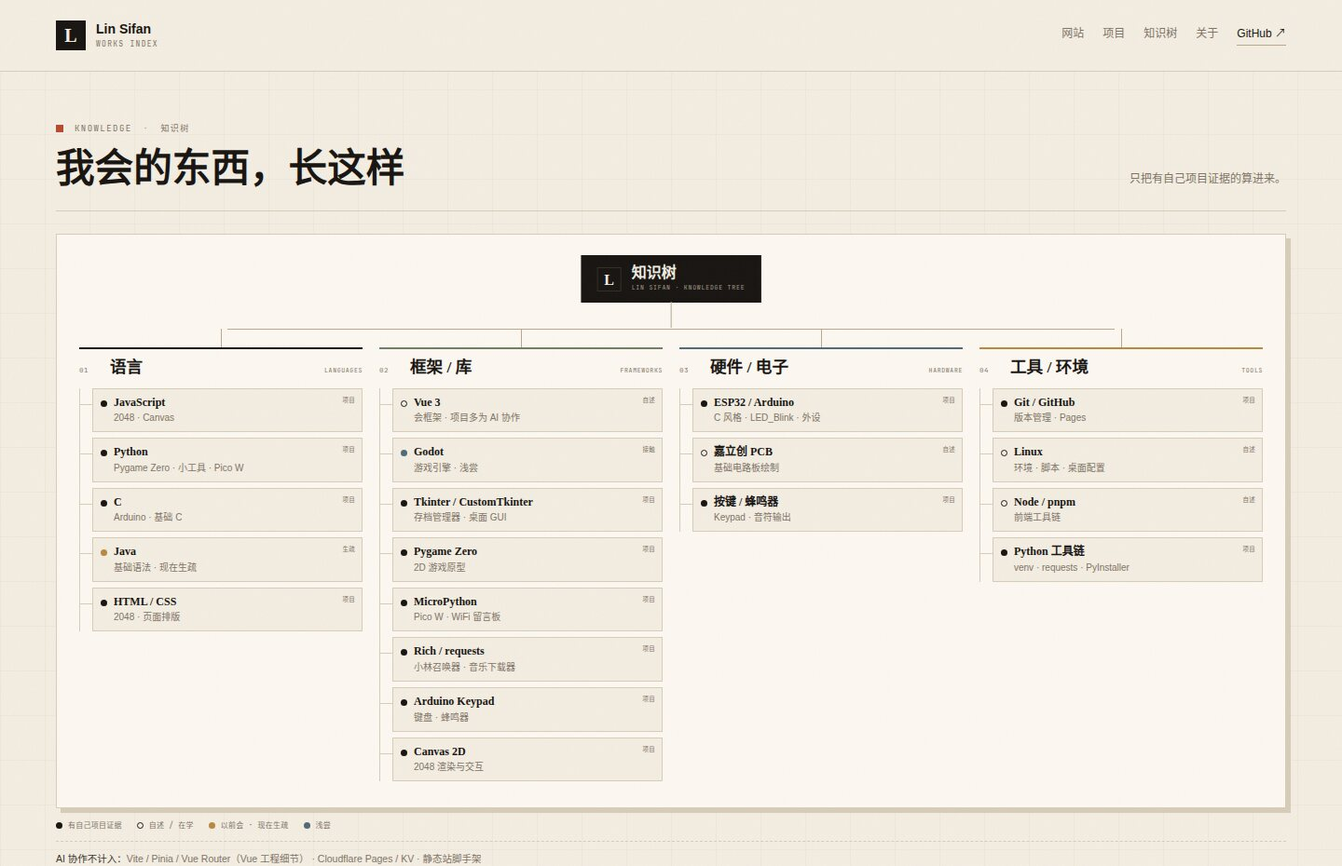
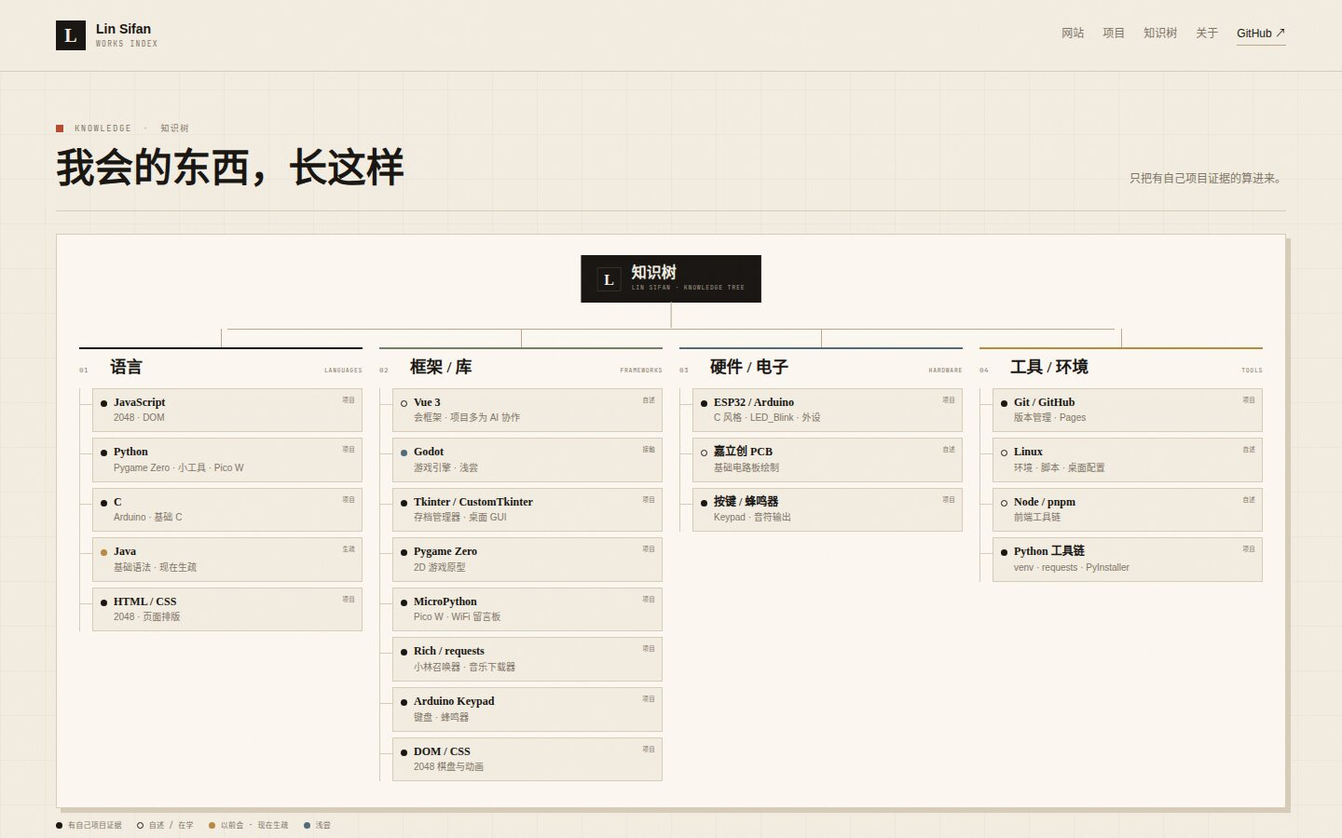
修正 2048 的渲染技术
- 2048 实际使用 DOM / CSS，不是 Canvas 2D
- JavaScript 节点改为 2048 · DOM
- Canvas 2D 节点替换为 DOM / CSS（2048 棋盘与动画）
- 更新知识树预览图，资源版本更新到 20261122-11

diff --git a/js/data.js b/js/data.js
@@ -1,1 +1,1 @@
-window.WORKS_DATA = {"profile":{"login":"TuxLin123233","name":"Lin Sifan","avatar":"assets/avatar.jpg","url":"https://github.com/TuxLin123233","repos":8,"contributions":544,"since":"2025"},"calendar":{"start":"2025-11-23","end":"2026-11-22","total":544,"days":[{"d":"2025-11-23","c":0,"l":0},{"d":"2025-11-24","c":0,"l":0},{"d":"2025-11-25","c":0,"l":0},{"d":"2025-11-26","c":0,"l":0},{"d":"2025-11-27","c":0,"l":0},{"d":"2025-11-28","c":0,"l":0},{"d":"2025-11-29","c":0,"l":0},{"d":"2025-11-30","c":0,"l":0},{"d":"2025-12-01","c":0,"l":0},{"d":"2025-12-02","c":0,"l":0},{"d":"2025-12-03","c":0,"l":0},{"d":"2025-12-04","c":0,"l":0},{"d":"2025-12-05","c":0,"l":0},{"d":"2025-12-06","c":0,"l":0},{"d":"2025-12-07","c":0,"l":0},{"d":"2025-12-08","c":0,"l":0},{"d":"2025-12-09","c":0,"l":0},{"d":"2025-12-10","c":0,"l":0},{"d":"2025-12-11","c":0,"l":0},{"d":"2025-12-12","c":0,"l":0},{"d":"2025-12-13","c":0,"l":0},{"d":"2025-12-14","c":0,"l":0},{"d":"2025-12-15","c":0,"l":0},{"d":"2025-12-16","c":0,"l":0},{"d":"2025-12-17","c":0,"l":0},{"d":"2025-12-18","c":0,"l":0},{"d":"2025-12-19","c":0,"l":0},{"d":"2025-12-20","c":0,"l":0},{"d":"2025-12-21","c":0,"l":0},{"d":"2025-12-22","c":0,"l":0},{"d":"2025-12-23","c":0,"l":0},{"d":"2025-12-24","c":0,"l":0},{"d":"2025-12-25","c":0,"l":0},{"d":"2025-12-26","c":0,"l":0},{"d":"2025-12-27","c":0,"l":0},{"d":"2025-12-28","c":0,"l":0},{"d":"2025-12-29","c":0,"l":0},{"d":"2025-12-30","c":0,"l":0},{"d":"2025-12-31","c":0,"l":0},{"d":"2026-01-01","c":0,"l":0},{"d":"2026-01-02","c":0,"l":0},{"d":"2026-01-03","c":0,"l":0},{"d":"2026-01-04","c":0,"l":0},{"d":"2026-01-05","c":0,"l":0},{"d":"2026-01-06","c":0,"l":0},{"d":"2026-01-07","c":0,"l":0},{"d":"2026-01-08","c":0,"l":0},{"d":"2026-01-09","c":0,"l":0},{"d":"2026-01-10","c":0,"l":0},{"d":"2026-01-11","c":0,"l":0},{"d":"2026-01-12","c":0,"l":0},{"d":"2026-01-13","c":0,"l":0},{"d":"2026-01-14","c":0,"l":0},{"d":"2026-01-15","c":0,"l":0},{"d":"2026-01-16","c":0,"l":0},{"d":"2026-01-17","c":0,"l":0},{"d":"2026-01-18","c":0,"l":0},{"d":"2026-01-19","c":0,"l":0},{"d":"2026-01-20","c":0,"l":0},{"d":"2026-01-21","c":0,"l":0},{"d":"2026-01-22","c":0,"l":0},{"d":"2026-01-23","c":0,"l":0},{"d":"2026-01-24","c":0,"l":0},{"d":"2026-01-25","c":0,"l":0},{"d":"2026-01-26","c":0,"l":0},{"d":"2026-01-27","c":0,"l":0},{"d":"2026-01-28","c":0,"l":0},{"d":"2026-01-29","c":0,"l":0},{"d":"2026-01-30","c":0,"l":0},{"d":"2026-01-31","c":0,"l":0},{"d":"2026-02-01","c":0,"l":0},{"d":"2026-02-02","c":0,"l":0},{"d":"2026-02-03","c":0,"l":0},{"d":"2026-02-04","c":0,"l":0},{"d":"2026-02-05","c":0,"l":0},{"d":"2026-02-06","c":0,"l":0},{"d":"2026-02-07","c":0,"l":0},{"d":"2026-02-08","c":0,"l":0},{"d":"2026-02-09","c":0,"l":0},{"d":"2026-02-10","c":0,"l":0},{"d":"2026-02-11","c":0,"l":0},{"d":"2026-02-12","c":0,"l":0},{"d":"2026-02-13","c":0,"l":0},{"d":"2026-02-14","c":0,"l":0},{"d":"2026-02-15","c":0,"l":0},{"d":"2026-02-16","c":0,"l":0},{"d":"2026-02-17","c":0,"l":0},{"d":"2026-02-18","c":0,"l":0},{"d":"2026-02-19","c":0,"l":0},{"d":"2026-02-20","c":0,"l":0},{"d":"2026-02-21","c":0,"l":0},{"d":"2026-02-22","c":0,"l":0},{"d":"2026-02-23","c":0,"l":0},{"d":"2026-02-24","c":0,"l":0},{"d":"2026-02-25","c":0,"l":0},{"d":"2026-02-26","c":0,"l":0},{"d":"2026-02-27","c":0,"l":0},{"d":"2026-02-28","c":17,"l":2},{"d":"2026-03-01","c":0,"l":0},{"d":"2026-03-02","c":0,"l":0},{"d":"2026-03-03","c":6,"l":1},{"d":"2026-03-04","c":0,"l":0},{"d":"2026-03-05","c":0,"l":0},{"d":"2026-03-06","c":0,"l":0},{"d":"2026-03-07","c":20,"l":2},{"d":"2026-03-08","c":4,"l":1},{"d":"2026-03-09","c":0,"l":0},{"d":"2026-03-10","c":0,"l":0},{"d":"2026-03-11","c":0,"l":0},{"d":"2026-03-12","c":0,"l":0},{"d":"2026-03-13","c":5,"l":1},{"d":"2026-03-14","c":4,"l":1},{"d":"2026-03-15","c":0,"l":0},{"d":"2026-03-16","c":0,"l":0},{"d":"2026-03-17","c":0,"l":0},{"d":"2026-03-18","c":0,"l":0},{"d":"2026-03-19","c":0,"l":0},{"d":"2026-03-20","c":4,"l":1},{"d":"2026-03-21","c":10,"l":1},{"d":"2026-03-22","c":0,"l":0},{"d":"2026-03-23","c":0,"l":0},{"d":"2026-03-24","c":0,"l":0},{"d":"2026-03-25","c":0,"l":0},{"d":"2026-03-26","c":0,"l":0},{"d":"2026-03-27","c":2,"l":1},{"d":"2026-03-28","c":13,"l":2},{"d":"2026-03-29","c":5,"l":1},{"d":"2026-03-30","c":0,"l":0},{"d":"2026-03-31","c":0,"l":0},{"d":"2026-04-01","c":0,"l":0},{"d":"2026-04-02","c":0,"l":0},{"d":"2026-04-03","c":0,"l":0},{"d":"2026-04-04","c":0,"l":0},{"d":"2026-04-05","c":0,"l":0},{"d":"2026-04-06","c":0,"l":0},{"d":"2026-04-07","c":0,"l":0},{"d":"2026-04-08","c":0,"l":0},{"d":"2026-04-09","c":0,"l":0},{"d":"2026-04-10","c":0,"l":0},{"d":"2026-04-11","c":6,"l":1},{"d":"2026-04-12","c":0,"l":0},{"d":"2026-04-13","c":0,"l":0},{"d":"2026-04-14","c":0,"l":0},{"d":"2026-04-15","c":0,"l":0},{"d":"2026-04-16","c":0,"l":0},{"d":"2026-04-17","c":1,"l":1},{"d":"2026-04-18","c":0,"l":0},{"d":"2026-04-19","c":0,"l":0},{"d":"2026-04-20","c":0,"l":0},{"d":"2026-04-21","c":0,"l":0},{"d":"2026-04-22","c":0,"l":0},{"d":"2026-04-23","c":0,"l":0},{"d":"2026-04-24","c":0,"l":0},{"d":"2026-04-25","c":0,"l":0},{"d":"2026-04-26","c":0,"l":0},{"d":"2026-04-27","c":0,"l":0},{"d":"2026-04-28","c":0,"l":0},{"d":"2026-04-29","c":0,"l":0},{"d":"2026-04-30","c":0,"l":0},{"d":"2026-05-01","c":0,"l":0},{"d":"2026-05-02","c":0,"l":0},{"d":"2026-05-03","c":0,"l":0},{"d":"2026-05-04","c":0,"l":0},{"d":"2026-05-05","c":0,"l":0},{"d":"2026-05-06","c":0,"l":0},{"d":"2026-05-07","c":0,"l":0},{"d":"2026-05-08","c":0,"l":0},{"d":"2026-05-09","c":0,"l":0},{"d":"2026-05-10","c":0,"l":0},{"d":"2026-05-11","c":0,"l":0},{"d":"2026-05-12","c":0,"l":0},{"d":"2026-05-13","c":0,"l":0},{"d":"2026-05-14","c":0,"l":0},{"d":"2026-05-15","c":0,"l":0},{"d":"2026-05-16","c":0,"l":0},{"d":"2026-05-17","c":0,"l":0},{"d":"2026-05-18","c":0,"l":0},{"d":"2026-05-19","c":0,"l":0},{"d":"2026-05-20","c":0,"l":0},{"d":"2026-05-21","c":0,"l":0},{"d":"2026-05-22","c":0,"l":0},{"d":"2026-05-23","c":0,"l":0},{"d":"2026-05-24","c":0,"l":0},{"d":"2026-05-25","c":0,"l":0},{"d":"2026-05-26","c":0,"l":0},{"d":"2026-05-27","c":0,"l":0},{"d":"2026-05-28","c":0,"l":0},{"d":"2026-05-29","c":0,"l":0},{"d":"2026-05-30","c":0,"l":0},{"d":"2026-05-31","c":0,"l":0},{"d":"2026-06-01","c":0,"l":0},{"d":"2026-06-02","c":0,"l":0},{"d":"2026-06-03","c":0,"l":0},{"d":"2026-06-04","c":0,"l":0},{"d":"2026-06-05","c":0,"l":0},{"d":"2026-06-06","c":0,"l":0},{"d":"2026-06-07","c":0,"l":0},{"d":"2026-06-08","c":0,"l":0},{"d":"2026-06-09","c":0,"l":0},{"d":"2026-06-10","c":0,"l":0},{"d":"2026-06-11","c":0,"l":0},{"d":"2026-06-12","c":0,"l":0},{"d":"2026-06-13","c":0,"l":0},{"d":"2026-06-14","c":1,"l":1},{"d":"2026-06-15","c":0,"l":0},{"d":"2026-06-16","c":0,"l":0},{"d":"2026-06-17","c":0,"l":0},{"d":"2026-06-18","c":2,"l":1},{"d":"2026-06-19","c":0,"l":0},{"d":"2026-06-20","c":0,"l":0},{"d":"2026-06-21","c":0,"l":0},{"d":"2026-06-22","c":0,"l":0},{"d":"2026-06-23","c":0,"l":0},{"d":"2026-06-24","c":0,"l":0},{"d":"2026-06-25","c":0,"l":0},{"d":"2026-06-26","c":0,"l":0},{"d":"2026-06-27","c":0,"l":0},{"d":"2026-06-28","c":0,"l":0},{"d":"2026-06-29","c":0,"l":0},{"d":"2026-06-30","c":0,"l":0},{"d":"2026-07-01","c":0,"l":0},{"d":"2026-07-02","c":0,"l":0},{"d":"2026-07-03","c":0,"l":0},{"d":"2026-07-04","c":0,"l":0},{"d":"2026-07-05","c":0,"l":0},{"d":"2026-07-06","c":0,"l":0},{"d":"2026-07-07","c":0,"l":0},{"d":"2026-07-08","c":0,"l":0},{"d":"2026-07-09","c":0,"l":0},{"d":"2026-07-10","c":0,"l":0},{"d":"2026-07-11","c":0,"l":0},{"d":"2026-07-12","c":0,"l":0},{"d":"2026-07-13","c":0,"l":0},{"d":"2026-07-14","c":0,"l":0},{"d":"2026-07-15","c":0,"l":0},{"d":"2026-07-16","c":0,"l":0},{"d":"2026-07-17","c":0,"l":0},{"d":"2026-07-18","c":0,"l":0},{"d":"2026-07-19","c":0,"l":0},{"d":"2026-07-20","c":0,"l":0},{"d":"2026-07-21","c":0,"l":0},{"d":"2026-07-22","c":0,"l":0},{"d":"2026-07-23","c":0,"l":0},{"d":"2026-07-24","c":0,"l":0},{"d":"2026-07-25","c":0,"l":0},{"d":"2026-07-26","c":0,"l":0},{"d":"2026-07-27","c":0,"l":0},{"d":"2026-07-28","c":0,"l":0},{"d":"2026-07-29","c":0,"l":0},{"d":"2026-07-30","c":0,"l":0},{"d":"2026-07-31","c":0,"l":0},{"d":"2026-08-01","c":0,"l":0},{"d":"2026-08-02","c":0,"l":0},{"d":"2026-08-03","c":0,"l":0},{"d":"2026-08-04","c":0,"l":0},{"d":"2026-08-05","c":0,"l":0},{"d":"2026-08-06","c":0,"l":0},{"d":"2026-08-07","c":0,"l":0},{"d":"2026-08-08","c":0,"l":0},{"d":"2026-08-09","c":0,"l":0},{"d":"2026-08-10","c":0,"l":0},{"d":"2026-08-11","c":0,"l":0},{"d":"2026-08-12","c":0,"l":0},{"d":"2026-08-13","c":0,"l":0},{"d":"2026-08-14","c":0,"l":0},{"d":"2026-08-15","c":0,"l":0},{"d":"2026-08-16","c":0,"l":0},{"d":"2026-08-17","c":0,"l":0},{"d":"2026-08-18","c":0,"l":0},{"d":"2026-08-19","c":0,"l":0},{"d":"2026-08-20","c":0,"l":0},{"d":"2026-08-21","c":0,"l":0},{"d":"2026-08-22","c":0,"l":0},{"d":"2026-08-23","c":0,"l":0},{"d":"2026-08-24","c":4,"l":1},{"d":"2026-08-25","c":0,"l":0},{"d":"2026-08-26","c":0,"l":0},{"d":"2026-08-27","c":2,"l":1},{"d":"2026-08-28","c":4,"l":1},{"d":"2026-08-29","c":1,"l":1},{"d":"2026-08-30","c":0,"l":0},{"d":"2026-08-31","c":0,"l":0},{"d":"2026-09-01","c":0,"l":0},{"d":"2026-09-02","c":0,"l":0},{"d":"2026-09-03","c":0,"l":0},{"d":"2026-09-04","c":0,"l":0},{"d":"2026-09-05","c":0,"l":0},{"d":"2026-09-06","c":0,"l":0},{"d":"2026-09-07","c":0,"l":0},{"d":"2026-09-08","c":0,"l":0},{"d":"2026-09-09","c":0,"l":0},{"d":"2026-09-10","c":0,"l":0},{"d":"2026-09-11","c":0,"l":0},{"d":"2026-09-12","c":5,"l":1},{"d":"2026-09-13","c":0,"l":0},{"d":"2026-09-14","c":0,"l":0},{"d":"2026-09-15","c":0,"l":0},{"d":"2026-09-16","c":0,"l":0},{"d":"2026-09-17","c":0,"l":0},{"d":"2026-09-18","c":3,"l":1},{"d":"2026-09-19","c":3,"l":1},{"d":"2026-09-20","c":0,"l":0},{"d":"2026-09-21","c":0,"l":0},{"d":"2026-09-22","c":0,"l":0},{"d":"2026-09-23","c":0,"l":0},{"d":"2026-09-24","c":0,"l":0},{"d":"2026-09-25","c":37,"l":4},{"d":"2026-09-26","c":29,"l":3},{"d":"2026-09-27","c":0,"l":0},{"d":"2026-09-28","c":0,"l":0},{"d":"2026-09-29","c":0,"l":0},{"d":"2026-09-30","c":5,"l":1},{"d":"2026-10-01","c":69,"l":4},{"d":"2026-10-02","c":105,"l":4},{"d":"2026-10-03","c":40,"l":4},{"d":"2026-10-04","c":26,"l":3},{"d":"2026-10-05","c":0,"l":0},{"d":"2026-10-06","c":0,"l":0},{"d":"2026-10-07","c":0,"l":0},{"d":"2026-10-08","c":0,"l":0},{"d":"2026-10-09","c":0,"l":0},{"d":"2026-10-10","c":8,"l":1},{"d":"2026-10-11","c":3,"l":1},{"d":"2026-10-12","c":0,"l":0},{"d":"2026-10-13","c":0,"l":0},{"d":"2026-10-14","c":0,"l":0},{"d":"2026-10-15","c":0,"l":0},{"d":"2026-10-16","c":0,"l":0},{"d":"2026-10-17","c":18,"l":2},{"d":"2026-10-18","c":25,"l":3},{"d":"2026-10-19","c":0,"l":0},{"d":"2026-10-20","c":0,"l":0},{"d":"2026-10-21","c":0,"l":0},{"d":"2026-10-22","c":0,"l":0},{"d":"2026-10-23","c":0,"l":0},{"d":"2026-10-24","c":0,"l":0},{"d":"2026-10-25","c":0,"l":0},{"d":"2026-10-26","c":0,"l":0},{"d":"2026-10-27","c":0,"l":0},{"d":"2026-10-28","c":0,"l":0},{"d":"2026-10-29","c":0,"l":0},{"d":"2026-10-30","c":0,"l":0},{"d":"2026-10-31","c":0,"l":0},{"d":"2026-11-01","c":0,"l":0},{"d":"2026-11-02","c":0,"l":0},{"d":"2026-11-03","c":0,"l":0},{"d":"2026-11-04","c":0,"l":0},{"d":"2026-11-05","c":0,"l":0},{"d":"2026-11-06","c":0,"l":0},{"d":"2026-11-07","c":0,"l":0},{"d":"2026-11-08","c":0,"l":0},{"d":"2026-11-09","c":0,"l":0},{"d":"2026-11-10","c":0,"l":0},{"d":"2026-11-11","c":0,"l":0},{"d":"2026-11-12","c":0,"l":0},{"d":"2026-11-13","c":0,"l":0},{"d":"2026-11-14","c":2,"l":1},{"d":"2026-11-15","c":15,"l":2},{"d":"2026-11-16","c":0,"l":0},{"d":"2026-11-17","c":0,"l":0},{"d":"2026-11-18","c":0,"l":0},{"d":"2026-11-19","c":0,"l":0},{"d":"2026-11-20","c":0,"l":0},{"d":"2026-11-21","c":16,"l":2},{"d":"2026-11-22","c":24,"l":3}]},"sites":[{"no":"01","name":"私人唱片档案","en":"PRIVATE PLAYLIST","tag":"音乐","desc":"431 首歌，按风格收好；黑胶杂志式的桌面与曲目表。","url":"https://tuxlin123233.github.io/my-play-list/","accent":"ink"},{"no":"02","name":"零食柜","en":"SNACK SHELF","tag":"食物","desc":"11 盒有包装的零食，拟物木架和会随滚动仰俯的纸箱。","url":"https://tuxlin123233.github.io/my-food-list/","accent":"coral"},{"no":"03","name":"一事一练","en":"ONE THING A DAY","tag":"工具","desc":"AI 长期陪练与存档：60 个练点、本周练习卡、换 AI 续接。","url":"https://tuxlin123233.github.io/json-prompt-form/","accent":"sage"},{"no":"04","name":"像素小镇","en":"PIXEL TOWN","tag":"像素","desc":"云端像素画板：画画、存档、串门，还能投到灯板。","url":"https://light-field.pages.dev","accent":"blue"},{"no":"05","name":"像素画网站","en":"PIXEL SPACE","tag":"图像","desc":"我的像素画作品与创作空间。","url":"https://pixel-space-9bn.pages.dev/","accent":"blue"},{"no":"06","name":"重力 2048","en":"GRAVITY 2048","tag":"游戏","desc":"一个受重力影响的 2048 小游戏。","url":"https://tuxlin123233.github.io/","accent":"mustard"}],"projects":[{"name":"fly-car","desc":"果蝇大脑控制的 ESP32 小车","lang":"C++ / ESP32","url":"https://github.com/TuxLin123233/fly-car"},{"name":"Minecraft-Save-Manager","desc":"Minecraft 存档批量导入工具","lang":"Python","url":"https://github.com/TuxLin123233/Minecraft-Save-Manager"},{"name":"pixel-town","desc":"像素小镇的源码、文档与硬件","lang":"Vue 3 / Cloudflare","url":"https://github.com/TuxLin123233/pixel-town"},{"name":"PixelSpace","desc":"像素画网站源码","lang":"Vue / Vite","url":"https://github.com/TuxLin123233/PixelSpace"},{"name":"my-play-list","desc":"私人唱片档案源码","lang":"HTML / CSS / JS","url":"https://github.com/TuxLin123233/my-play-list"},{"name":"my-food-list","desc":"零食柜源码","lang":"HTML / CSS / JS","url":"https://github.com/TuxLin123233/my-food-list"}],"knowledge":{"root":"Lin Sifan","branches":[{"name":"语言","en":"LANGUAGES","color":"ink","leaves":[{"name":"JavaScript","note":"2048 · Canvas","status":"project"},{"name":"Python","note":"Pygame Zero · 小工具 · Pico W","status":"project"},{"name":"C","note":"Arduino · 基础 C","status":"project"},{"name":"Java","note":"基础语法 · 现在生疏","status":"rusty"},{"name":"HTML / CSS","note":"2048 · 页面排版","status":"project"}]},{"name":"框架 / 库","en":"FRAMEWORKS","color":"sage","leaves":[{"name":"Vue 3","note":"会框架 · 项目多为 AI 协作","status":"stated"},{"name":"Godot","note":"游戏引擎 · 浅尝","status":"light"},{"name":"Tkinter / CustomTkinter","note":"存档管理器 · 桌面 GUI","status":"project"},{"name":"Pygame Zero","note":"2D 游戏原型","status":"project"},{"name":"MicroPython","note":"Pico W · WiFi 留言板","status":"project"},{"name":"Rich / requests","note":"小林召唤器 · 音乐下载器","status":"project"},{"name":"Arduino Keypad","note":"键盘 · 蜂鸣器","status":"project"},{"name":"Canvas 2D","note":"2048 渲染与交互","status":"project"}]},{"name":"硬件 / 电子","en":"HARDWARE","color":"blue","leaves":[{"name":"ESP32 / Arduino","note":"C 风格 · LED_Blink · 外设","status":"project"},{"name":"嘉立创 PCB","note":"基础电路板绘制","status":"stated"},{"name":"按键 / 蜂鸣器","note":"Keypad · 音符输出","status":"project"}]},{"name":"工具 / 环境","en":"TOOLS","color":"mustard","leaves":[{"name":"Git / GitHub","note":"版本管理 · Pages","status":"project"},{"name":"Linux","note":"环境 · 脚本 · 桌面配置","status":"stated"},{"name":"Node / pnpm","note":"前端工具链","status":"stated"},{"name":"Python 工具链","note":"venv · requests · PyInstaller","status":"project"}]}],"excluded":["Vite / Pinia / Vue Router（Vue 工程细节）","Cloudflare Pages / KV","静态站脚手架"]},"updated":"2026-11-22"};
+window.WORKS_DATA = {"profile":{"login":"TuxLin123233","name":"Lin Sifan","avatar":"assets/avatar.jpg","url":"https://github.com/TuxLin123233","repos":8,"contributions":544,"since":"2025"},"calendar":{"start":"2025-11-23","end":"2026-11-22","total":544,"days":[{"d":"2025-11-23","c":0,"l":0},{"d":"2025-11-24","c":0,"l":0},{"d":"2025-11-25","c":0,"l":0},{"d":"2025-11-26","c":0,"l":0},{"d":"2025-11-27","c":0,"l":0},{"d":"2025-11-28","c":0,"l":0},{"d":"2025-11-29","c":0,"l":0},{"d":"2025-11-30","c":0,"l":0},{"d":"2025-12-01","c":0,"l":0},{"d":"2025-12-02","c":0,"l":0},{"d":"2025-12-03","c":0,"l":0},{"d":"2025-12-04","c":0,"l":0},{"d":"2025-12-05","c":0,"l":0},{"d":"2025-12-06","c":0,"l":0},{"d":"2025-12-07","c":0,"l":0},{"d":"2025-12-08","c":0,"l":0},{"d":"2025-12-09","c":0,"l":0},{"d":"2025-12-10","c":0,"l":0},{"d":"2025-12-11","c":0,"l":0},{"d":"2025-12-12","c":0,"l":0},{"d":"2025-12-13","c":0,"l":0},{"d":"2025-12-14","c":0,"l":0},{"d":"2025-12-15","c":0,"l":0},{"d":"2025-12-16","c":0,"l":0},{"d":"2025-12-17","c":0,"l":0},{"d":"2025-12-18","c":0,"l":0},{"d":"2025-12-19","c":0,"l":0},{"d":"2025-12-20","c":0,"l":0},{"d":"2025-12-21","c":0,"l":0},{"d":"2025-12-22","c":0,"l":0},{"d":"2025-12-23","c":0,"l":0},{"d":"2025-12-24","c":0,"l":0},{"d":"2025-12-25","c":0,"l":0},{"d":"2025-12-26","c":0,"l":0},{"d":"2025-12-27","c":0,"l":0},{"d":"2025-12-28","c":0,"l":0},{"d":"2025-12-29","c":0,"l":0},{"d":"2025-12-30","c":0,"l":0},{"d":"2025-12-31","c":0,"l":0},{"d":"2026-01-01","c":0,"l":0},{"d":"2026-01-02","c":0,"l":0},{"d":"2026-01-03","c":0,"l":0},{"d":"2026-01-04","c":0,"l":0},{"d":"2026-01-05","c":0,"l":0},{"d":"2026-01-06","c":0,"l":0},{"d":"2026-01-07","c":0,"l":0},{"d":"2026-01-08","c":0,"l":0},{"d":"2026-01-09","c":0,"l":0},{"d":"2026-01-10","c":0,"l":0},{"d":"2026-01-11","c":0,"l":0},{"d":"2026-01-12","c":0,"l":0},{"d":"2026-01-13","c":0,"l":0},{"d":"2026-01-14","c":0,"l":0},{"d":"2026-01-15","c":0,"l":0},{"d":"2026-01-16","c":0,"l":0},{"d":"2026-01-17","c":0,"l":0},{"d":"2026-01-18","c":0,"l":0},{"d":"2026-01-19","c":0,"l":0},{"d":"2026-01-20","c":0,"l":0},{"d":"2026-01-21","c":0,"l":0},{"d":"2026-01-22","c":0,"l":0},{"d":"2026-01-23","c":0,"l":0},{"d":"2026-01-24","c":0,"l":0},{"d":"2026-01-25","c":0,"l":0},{"d":"2026-01-26","c":0,"l":0},{"d":"2026-01-27","c":0,"l":0},{"d":"2026-01-28","c":0,"l":0},{"d":"2026-01-29","c":0,"l":0},{"d":"2026-01-30","c":0,"l":0},{"d":"2026-01-31","c":0,"l":0},{"d":"2026-02-01","c":0,"l":0},{"d":"2026-02-02","c":0,"l":0},{"d":"2026-02-03","c":0,"l":0},{"d":"2026-02-04","c":0,"l":0},{"d":"2026-02-05","c":0,"l":0},{"d":"2026-02-06","c":0,"l":0},{"d":"2026-02-07","c":0,"l":0},{"d":"2026-02-08","c":0,"l":0},{"d":"2026-02-09","c":0,"l":0},{"d":"2026-02-10","c":0,"l":0},{"d":"2026-02-11","c":0,"l":0},{"d":"2026-02-12","c":0,"l":0},{"d":"2026-02-13","c":0,"l":0},{"d":"2026-02-14","c":0,"l":0},{"d":"2026-02-15","c":0,"l":0},{"d":"2026-02-16","c":0,"l":0},{"d":"2026-02-17","c":0,"l":0},{"d":"2026-02-18","c":0,"l":0},{"d":"2026-02-19","c":0,"l":0},{"d":"2026-02-20","c":0,"l":0},{"d":"2026-02-21","c":0,"l":0},{"d":"2026-02-22","c":0,"l":0},{"d":"2026-02-23","c":0,"l":0},{"d":"2026-02-24","c":0,"l":0},{"d":"2026-02-25","c":0,"l":0},{"d":"2026-02-26","c":0,"l":0},{"d":"2026-02-27","c":0,"l":0},{"d":"2026-02-28","c":17,"l":2},{"d":"2026-03-01","c":0,"l":0},{"d":"2026-03-02","c":0,"l":0},{"d":"2026-03-03","c":6,"l":1},{"d":"2026-03-04","c":0,"l":0},{"d":"2026-03-05","c":0,"l":0},{"d":"2026-03-06","c":0,"l":0},{"d":"2026-03-07","c":20,"l":2},{"d":"2026-03-08","c":4,"l":1},{"d":"2026-03-09","c":0,"l":0},{"d":"2026-03-10","c":0,"l":0},{"d":"2026-03-11","c":0,"l":0},{"d":"2026-03-12","c":0,"l":0},{"d":"2026-03-13","c":5,"l":1},{"d":"2026-03-14","c":4,"l":1},{"d":"2026-03-15","c":0,"l":0},{"d":"2026-03-16","c":0,"l":0},{"d":"2026-03-17","c":0,"l":0},{"d":"2026-03-18","c":0,"l":0},{"d":"2026-03-19","c":0,"l":0},{"d":"2026-03-20","c":4,"l":1},{"d":"2026-03-21","c":10,"l":1},{"d":"2026-03-22","c":0,"l":0},{"d":"2026-03-23","c":0,"l":0},{"d":"2026-03-24","c":0,"l":0},{"d":"2026-03-25","c":0,"l":0},{"d":"2026-03-26","c":0,"l":0},{"d":"2026-03-27","c":2,"l":1},{"d":"2026-03-28","c":13,"l":2},{"d":"2026-03-29","c":5,"l":1},{"d":"2026-03-30","c":0,"l":0},{"d":"2026-03-31","c":0,"l":0},{"d":"2026-04-01","c":0,"l":0},{"d":"2026-04-02","c":0,"l":0},{"d":"2026-04-03","c":0,"l":0},{"d":"2026-04-04","c":0,"l":0},{"d":"2026-04-05","c":0,"l":0},{"d":"2026-04-06","c":0,"l":0},{"d":"2026-04-07","c":0,"l":0},{"d":"2026-04-08","c":0,"l":0},{"d":"2026-04-09","c":0,"l":0},{"d":"2026-04-10","c":0,"l":0},{"d":"2026-04-11","c":6,"l":1},{"d":"2026-04-12","c":0,"l":0},{"d":"2026-04-13","c":0,"l":0},{"d":"2026-04-14","c":0,"l":0},{"d":"2026-04-15","c":0,"l":0},{"d":"2026-04-16","c":0,"l":0},{"d":"2026-04-17","c":1,"l":1},{"d":"2026-04-18","c":0,"l":0},{"d":"2026-04-19","c":0,"l":0},{"d":"2026-04-20","c":0,"l":0},{"d":"2026-04-21","c":0,"l":0},{"d":"2026-04-22","c":0,"l":0},{"d":"2026-04-23","c":0,"l":0},{"d":"2026-04-24","c":0,"l":0},{"d":"2026-04-25","c":0,"l":0},{"d":"2026-04-26","c":0,"l":0},{"d":"2026-04-27","c":0,"l":0},{"d":"2026-04-28","c":0,"l":0},{"d":"2026-04-29","c":0,"l":0},{"d":"2026-04-30","c":0,"l":0},{"d":"2026-05-01","c":0,"l":0},{"d":"2026-05-02","c":0,"l":0},{"d":"2026-05-03","c":0,"l":0},{"d":"2026-05-04","c":0,"l":0},{"d":"2026-05-05","c":0,"l":0},{"d":"2026-05-06","c":0,"l":0},{"d":"2026-05-07","c":0,"l":0},{"d":"2026-05-08","c":0,"l":0},{"d":"2026-05-09","c":0,"l":0},{"d":"2026-05-10","c":0,"l":0},{"d":"2026-05-11","c":0,"l":0},{"d":"2026-05-12","c":0,"l":0},{"d":"2026-05-13","c":0,"l":0},{"d":"2026-05-14","c":0,"l":0},{"d":"2026-05-15","c":0,"l":0},{"d":"2026-05-16","c":0,"l":0},{"d":"2026-05-17","c":0,"l":0},{"d":"2026-05-18","c":0,"l":0},{"d":"2026-05-19","c":0,"l":0},{"d":"2026-05-20","c":0,"l":0},{"d":"2026-05-21","c":0,"l":0},{"d":"2026-05-22","c":0,"l":0},{"d":"2026-05-23","c":0,"l":0},{"d":"2026-05-24","c":0,"l":0},{"d":"2026-05-25","c":0,"l":0},{"d":"2026-05-26","c":0,"l":0},{"d":"2026-05-27","c":0,"l":0},{"d":"2026-05-28","c":0,"l":0},{"d":"2026-05-29","c":0,"l":0},{"d":"2026-05-30","c":0,"l":0},{"d":"2026-05-31","c":0,"l":0},{"d":"2026-06-01","c":0,"l":0},{"d":"2026-06-02","c":0,"l":0},{"d":"2026-06-03","c":0,"l":0},{"d":"2026-06-04","c":0,"l":0},{"d":"2026-06-05","c":0,"l":0},{"d":"2026-06-06","c":0,"l":0},{"d":"2026-06-07","c":0,"l":0},{"d":"2026-06-08","c":0,"l":0},{"d":"2026-06-09","c":0,"l":0},{"d":"2026-06-10","c":0,"l":0},{"d":"2026-06-11","c":0,"l":0},{"d":"2026-06-12","c":0,"l":0},{"d":"2026-06-13","c":0,"l":0},{"d":"2026-06-14","c":1,"l":1},{"d":"2026-06-15","c":0,"l":0},{"d":"2026-06-16","c":0,"l":0},{"d":"2026-06-17","c":0,"l":0},{"d":"2026-06-18","c":2,"l":1},{"d":"2026-06-19","c":0,"l":0},{"d":"2026-06-20","c":0,"l":0},{"d":"2026-06-21","c":0,"l":0},{"d":"2026-06-22","c":0,"l":0},{"d":"2026-06-23","c":0,"l":0},{"d":"2026-06-24","c":0,"l":0},{"d":"2026-06-25","c":0,"l":0},{"d":"2026-06-26","c":0,"l":0},{"d":"2026-06-27","c":0,"l":0},{"d":"2026-06-28","c":0,"l":0},{"d":"2026-06-29","c":0,"l":0},{"d":"2026-06-30","c":0,"l":0},{"d":"2026-07-01","c":0,"l":0},{"d":"2026-07-02","c":0,"l":0},{"d":"2026-07-03","c":0,"l":0},{"d":"2026-07-04","c":0,"l":0},{"d":"2026-07-05","c":0,"l":0},{"d":"2026-07-06","c":0,"l":0},{"d":"2026-07-07","c":0,"l":0},{"d":"2026-07-08","c":0,"l":0},{"d":"2026-07-09","c":0,"l":0},{"d":"2026-07-10","c":0,"l":0},{"d":"2026-07-11","c":0,"l":0},{"d":"2026-07-12","c":0,"l":0},{"d":"2026-07-13","c":0,"l":0},{"d":"2026-07-14","c":0,"l":0},{"d":"2026-07-15","c":0,"l":0},{"d":"2026-07-16","c":0,"l":0},{"d":"2026-07-17","c":0,"l":0},{"d":"2026-07-18","c":0,"l":0},{"d":"2026-07-19","c":0,"l":0},{"d":"2026-07-20","c":0,"l":0},{"d":"2026-07-21","c":0,"l":0},{"d":"2026-07-22","c":0,"l":0},{"d":"2026-07-23","c":0,"l":0},{"d":"2026-07-24","c":0,"l":0},{"d":"2026-07-25","c":0,"l":0},{"d":"2026-07-26","c":0,"l":0},{"d":"2026-07-27","c":0,"l":0},{"d":"2026-07-28","c":0,"l":0},{"d":"2026-07-29","c":0,"l":0},{"d":"2026-07-30","c":0,"l":0},{"d":"2026-07-31","c":0,"l":0},{"d":"2026-08-01","c":0,"l":0},{"d":"2026-08-02","c":0,"l":0},{"d":"2026-08-03","c":0,"l":0},{"d":"2026-08-04","c":0,"l":0},{"d":"2026-08-05","c":0,"l":0},{"d":"2026-08-06","c":0,"l":0},{"d":"2026-08-07","c":0,"l":0},{"d":"2026-08-08","c":0,"l":0},{"d":"2026-08-09","c":0,"l":0},{"d":"2026-08-10","c":0,"l":0},{"d":"2026-08-11","c":0,"l":0},{"d":"2026-08-12","c":0,"l":0},{"d":"2026-08-13","c":0,"l":0},{"d":"2026-08-14","c":0,"l":0},{"d":"2026-08-15","c":0,"l":0},{"d":"2026-08-16","c":0,"l":0},{"d":"2026-08-17","c":0,"l":0},{"d":"2026-08-18","c":0,"l":0},{"d":"2026-08-19","c":0,"l":0},{"d":"2026-08-20","c":0,"l":0},{"d":"2026-08-21","c":0,"l":0},{"d":"2026-08-22","c":0,"l":0},{"d":"2026-08-23","c":0,"l":0},{"d":"2026-08-24","c":4,"l":1},{"d":"2026-08-25","c":0,"l":0},{"d":"2026-08-26","c":0,"l":0},{"d":"2026-08-27","c":2,"l":1},{"d":"2026-08-28","c":4,"l":1},{"d":"2026-08-29","c":1,"l":1},{"d":"2026-08-30","c":0,"l":0},{"d":"2026-08-31","c":0,"l":0},{"d":"2026-09-01","c":0,"l":0},{"d":"2026-09-02","c":0,"l":0},{"d":"2026-09-03","c":0,"l":0},{"d":"2026-09-04","c":0,"l":0},{"d":"2026-09-05","c":0,"l":0},{"d":"2026-09-06","c":0,"l":0},{"d":"2026-09-07","c":0,"l":0},{"d":"2026-09-08","c":0,"l":0},{"d":"2026-09-09","c":0,"l":0},{"d":"2026-09-10","c":0,"l":0},{"d":"2026-09-11","c":0,"l":0},{"d":"2026-09-12","c":5,"l":1},{"d":"2026-09-13","c":0,"l":0},{"d":"2026-09-14","c":0,"l":0},{"d":"2026-09-15","c":0,"l":0},{"d":"2026-09-16","c":0,"l":0},{"d":"2026-09-17","c":0,"l":0},{"d":"2026-09-18","c":3,"l":1},{"d":"2026-09-19","c":3,"l":1},{"d":"2026-09-20","c":0,"l":0},{"d":"2026-09-21","c":0,"l":0},{"d":"2026-09-22","c":0,"l":0},{"d":"2026-09-23","c":0,"l":0},{"d":"2026-09-24","c":0,"l":0},{"d":"2026-09-25","c":37,"l":4},{"d":"2026-09-26","c":29,"l":3},{"d":"2026-09-27","c":0,"l":0},{"d":"2026-09-28","c":0,"l":0},{"d":"2026-09-29","c":0,"l":0},{"d":"2026-09-30","c":5,"l":1},{"d":"2026-10-01","c":69,"l":4},{"d":"2026-10-02","c":105,"l":4},{"d":"2026-10-03","c":40,"l":4},{"d":"2026-10-04","c":26,"l":3},{"d":"2026-10-05","c":0,"l":0},{"d":"2026-10-06","c":0,"l":0},{"d":"2026-10-07","c":0,"l":0},{"d":"2026-10-08","c":0,"l":0},{"d":"2026-10-09","c":0,"l":0},{"d":"2026-10-10","c":8,"l":1},{"d":"2026-10-11","c":3,"l":1},{"d":"2026-10-12","c":0,"l":0},{"d":"2026-10-13","c":0,"l":0},{"d":"2026-10-14","c":0,"l":0},{"d":"2026-10-15","c":0,"l":0},{"d":"2026-10-16","c":0,"l":0},{"d":"2026-10-17","c":18,"l":2},{"d":"2026-10-18","c":25,"l":3},{"d":"2026-10-19","c":0,"l":0},{"d":"2026-10-20","c":0,"l":0},{"d":"2026-10-21","c":0,"l":0},{"d":"2026-10-22","c":0,"l":0},{"d":"2026-10-23","c":0,"l":0},{"d":"2026-10-24","c":0,"l":0},{"d":"2026-10-25","c":0,"l":0},{"d":"2026-10-26","c":0,"l":0},{"d":"2026-10-27","c":0,"l":0},{"d":"2026-10-28","c":0,"l":0},{"d":"2026-10-29","c":0,"l":0},{"d":"2026-10-30","c":0,"l":0},{"d":"2026-10-31","c":0,"l":0},{"d":"2026-11-01","c":0,"l":0},{"d":"2026-11-02","c":0,"l":0},{"d":"2026-11-03","c":0,"l":0},{"d":"2026-11-04","c":0,"l":0},{"d":"2026-11-05","c":0,"l":0},{"d":"2026-11-06","c":0,"l":0},{"d":"2026-11-07","c":0,"l":0},{"d":"2026-11-08","c":0,"l":0},{"d":"2026-11-09","c":0,"l":0},{"d":"2026-11-10","c":0,"l":0},{"d":"2026-11-11","c":0,"l":0},{"d":"2026-11-12","c":0,"l":0},{"d":"2026-11-13","c":0,"l":0},{"d":"2026-11-14","c":2,"l":1},{"d":"2026-11-15","c":15,"l":2},{"d":"2026-11-16","c":0,"l":0},{"d":"2026-11-17","c":0,"l":0},{"d":"2026-11-18","c":0,"l":0},{"d":"2026-11-19","c":0,"l":0},{"d":"2026-11-20","c":0,"l":0},{"d":"2026-11-21","c":16,"l":2},{"d":"2026-11-22","c":24,"l":3}]},"sites":[{"no":"01","name":"私人唱片档案","en":"PRIVATE PLAYLIST","tag":"音乐","desc":"431 首歌，按风格收好；黑胶杂志式的桌面与曲目表。","url":"https://tuxlin123233.github.io/my-play-list/","accent":"ink"},{"no":"02","name":"零食柜","en":"SNACK SHELF","tag":"食物","desc":"11 盒有包装的零食，拟物木架和会随滚动仰俯的纸箱。","url":"https://tuxlin123233.github.io/my-food-list/","accent":"coral"},{"no":"03","name":"一事一练","en":"ONE THING A DAY","tag":"工具","desc":"AI 长期陪练与存档：60 个练点、本周练习卡、换 AI 续接。","url":"https://tuxlin123233.github.io/json-prompt-form/","accent":"sage"},{"no":"04","name":"像素小镇","en":"PIXEL TOWN","tag":"像素","desc":"云端像素画板：画画、存档、串门，还能投到灯板。","url":"https://light-field.pages.dev","accent":"blue"},{"no":"05","name":"像素画网站","en":"PIXEL SPACE","tag":"图像","desc":"我的像素画作品与创作空间。","url":"https://pixel-space-9bn.pages.dev/","accent":"blue"},{"no":"06","name":"重力 2048","en":"GRAVITY 2048","tag":"游戏","desc":"一个受重力影响的 2048 小游戏。","url":"https://tuxlin123233.github.io/","accent":"mustard"}],"projects":[{"name":"fly-car","desc":"果蝇大脑控制的 ESP32 小车","lang":"C++ / ESP32","url":"https://github.com/TuxLin123233/fly-car"},{"name":"Minecraft-Save-Manager","desc":"Minecraft 存档批量导入工具","lang":"Python","url":"https://github.com/TuxLin123233/Minecraft-Save-Manager"},{"name":"pixel-town","desc":"像素小镇的源码、文档与硬件","lang":"Vue 3 / Cloudflare","url":"https://github.com/TuxLin123233/pixel-town"},{"name":"PixelSpace","desc":"像素画网站源码","lang":"Vue / Vite","url":"https://github.com/TuxLin123233/PixelSpace"},{"name":"my-play-list","desc":"私人唱片档案源码","lang":"HTML / CSS / JS","url":"https://github.com/TuxLin123233/my-play-list"},{"name":"my-food-list","desc":"零食柜源码","lang":"HTML / CSS / JS","url":"https://github.com/TuxLin123233/my-food-list"}],"knowledge":{"root":"Lin Sifan","branches":[{"name":"语言","en":"LANGUAGES","color":"ink","leaves":[{"name":"JavaScript","note":"2048 · DOM","status":"project"},{"name":"Python","note":"Pygame Zero · 小工具 · Pico W","status":"project"},{"name":"C","note":"Arduino · 基础 C","status":"project"},{"name":"Java","note":"基础语法 · 现在生疏","status":"rusty"},{"name":"HTML / CSS","note":"2048 · 页面排版","status":"project"}]},{"name":"框架 / 库","en":"FRAMEWORKS","color":"sage","leaves":[{"name":"Vue 3","note":"会框架 · 项目多为 AI 协作","status":"stated"},{"name":"Godot","note":"游戏引擎 · 浅尝","status":"light"},{"name":"Tkinter / CustomTkinter","note":"存档管理器 · 桌面 GUI","status":"project"},{"name":"Pygame Zero","note":"2D 游戏原型","status":"project"},{"name":"MicroPython","note":"Pico W · WiFi 留言板","status":"project"},{"name":"Rich / requests","note":"小林召唤器 · 音乐下载器","status":"project"},{"name":"Arduino Keypad","note":"键盘 · 蜂鸣器","status":"project"},{"name":"DOM / CSS","note":"2048 棋盘与动画","status":"project"}]},{"name":"硬件 / 电子","en":"HARDWARE","color":"blue","leaves":[{"name":"ESP32 / Arduino","note":"C 风格 · LED_Blink · 外设","status":"project"},{"name":"嘉立创 PCB","note":"基础电路板绘制","status":"stated"},{"name":"按键 / 蜂鸣器","note":"Keypad · 音符输出","status":"project"}]},{"name":"工具 / 环境","en":"TOOLS","color":"mustard","leaves":[{"name":"Git / GitHub","note":"版本管理 · Pages","status":"project"},{"name":"Linux","note":"环境 · 脚本 · 桌面配置","status":"stated"},{"name":"Node / pnpm","note":"前端工具链","status":"stated"},{"name":"Python 工具链","note":"venv · requests · PyInstaller","status":"project"}]}],"excluded":["Vite / Pinia / Vue Router（Vue 工程细节）","Cloudflare Pages / KV","静态站脚手架"]},"updated":"2026-11-22"};

diff --git a/index.html b/index.html
@@ -14,14 +14,14 @@
   <meta property="og:description" content="网站、像素、游戏与小实验，以及 GitHub 上的贡献记录。">
   <meta property="og:type" content="website">
   <meta property="og:url" content="https://tuxlin123233.github.io/my-works/">
-  <meta property="og:image" content="https://tuxlin123233.github.io/my-works/assets/og-cover.jpg?v=20261122-10">
+  <meta property="og:image" content="https://tuxlin123233.github.io/my-works/assets/og-cover.jpg?v=20261122-11">
   <meta property="og:image:width" content="1200">
   <meta property="og:image:height" content="630">
   <meta name="twitter:card" content="summary_large_image">
-  <meta name="twitter:image" content="https://tuxlin123233.github.io/my-works/assets/og-cover.jpg?v=20261122-10">
+  <meta name="twitter:image" content="https://tuxlin123233.github.io/my-works/assets/og-cover.jpg?v=20261122-11">
   <title>Lin Sifan · 作品索引</title>
   <link rel="icon" href="favicon.svg" type="image/svg+xml">
-  <link rel="stylesheet" href="css/style.css?v=20261122-10">
+  <link rel="stylesheet" href="css/style.css?v=20261122-11">
 </head>
 <body>
   <header class="site-head">
@@ -167,7 +167,7 @@
     <svg viewBox="0 0 24 24" aria-hidden="true"><path d="m6 14 6-6 6 6"/></svg>
   </button>
 
-  <script src="js/data.js?v=20261122-10"></script>
-  <script src="js/app.js?v=20261122-10"></script>
+  <script src="js/data.js?v=20261122-11"></script>
+  <script src="js/app.js?v=20261122-11"></script>
 </body>
 </html>

diff --git a/tools/build_site_data.py b/tools/build_site_data.py
@@ -49,7 +49,7 @@ KNOWLEDGE = {
     "root": "Lin Sifan",
     "branches": [
         {"name": "语言", "en": "LANGUAGES", "color": "ink", "leaves": [
-            {"name": "JavaScript", "note": "2048 · Canvas", "status": "project"},
+            {"name": "JavaScript", "note": "2048 · DOM", "status": "project"},
             {"name": "Python", "note": "Pygame Zero · 小工具 · Pico W", "status": "project"},
             {"name": "C", "note": "Arduino · 基础 C", "status": "project"},
             {"name": "Java", "note": "基础语法 · 现在生疏", "status": "rusty"},
@@ -63,7 +63,7 @@ KNOWLEDGE = {
             {"name": "MicroPython", "note": "Pico W · WiFi 留言板", "status": "project"},
             {"name": "Rich / requests", "note": "小林召唤器 · 音乐下载器", "status": "project"},
             {"name": "Arduino Keypad", "note": "键盘 · 蜂鸣器", "status": "project"},
-            {"name": "Canvas 2D", "note": "2048 渲染与交互", "status": "project"},
+            {"name": "DOM / CSS", "note": "2048 棋盘与动画", "status": "project"},
         ]},
         {"name": "硬件 / 电子", "en": "HARDWARE", "color": "blue", "leaves": [
             {"name": "ESP32 / Arduino", "note": "C 风格 · LED_Blink · 外设", "status": "project"},

diff --git a/README.md b/README.md
@@ -41,7 +41,7 @@
 页面里有一张知识树：
 
 - 语言：JavaScript / Python / C / Java / HTML-CSS
-- 框架 / 库：Vue 3、Godot（浅尝）、Tkinter / CustomTkinter、Pygame Zero、MicroPython、Rich / requests、Arduino Keypad、Canvas 2D
+- 框架 / 库：Vue 3、Godot（浅尝）、Tkinter / CustomTkinter、Pygame Zero、MicroPython、Rich / requests、Arduino Keypad、DOM / CSS
 - 硬件：ESP32 / Arduino、嘉立创 PCB、按键 / 蜂鸣器
 - 工具：Git / GitHub、Linux、Node / pnpm、Python 工具链
 
